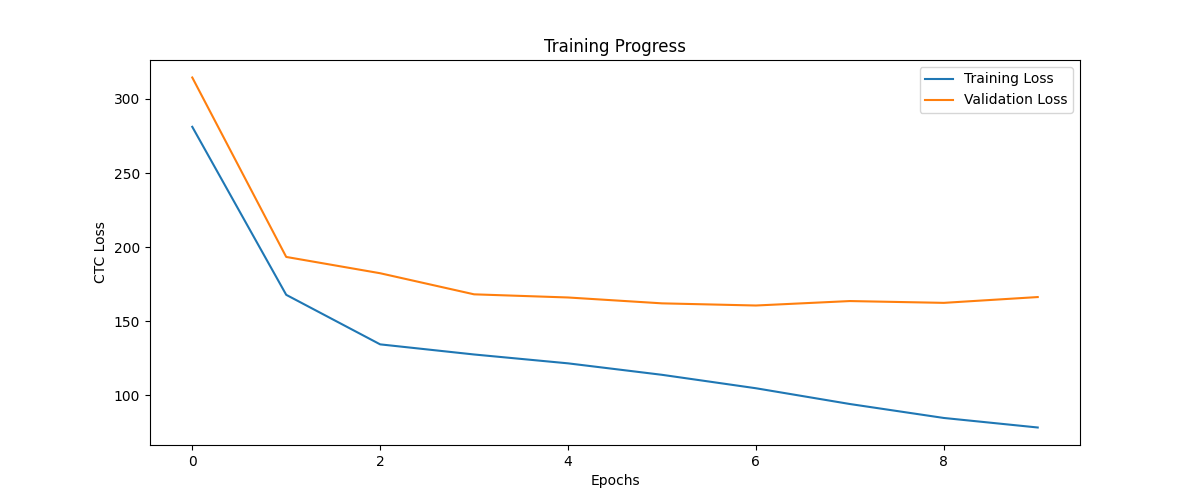
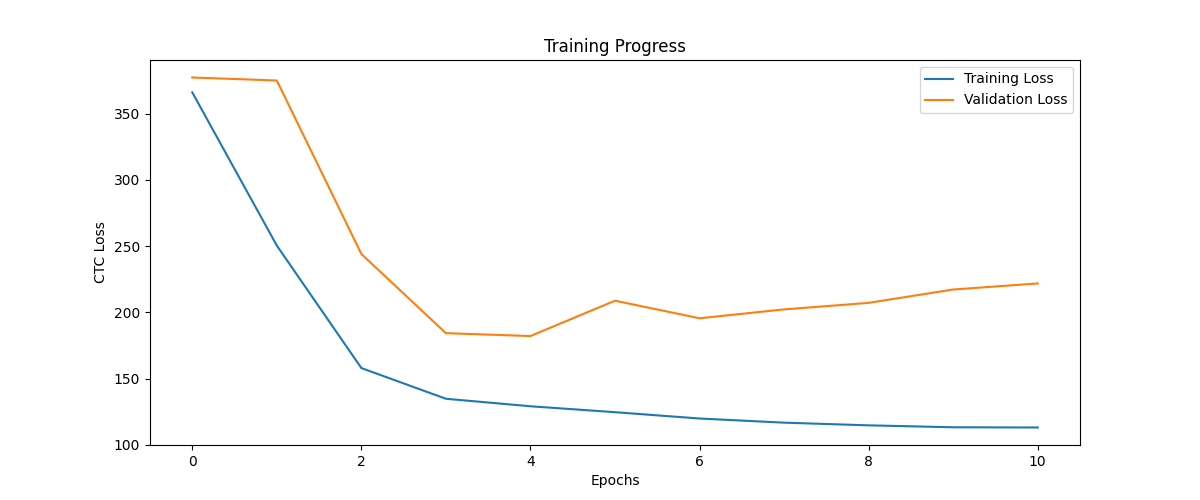
NOT knowing

diff --git a/models/stt_model/architecture.py b/models/stt_model/architecture.py
@@ -59,9 +59,9 @@ def build_stt_model(
 
     # BiLSTM Layers with regularization to avoid overfitting. Bidirection to capture information from both sides and LSTM because audio is sequential
     x = layers.Bidirectional(layers.LSTM(128, return_sequences=True, 
-                                      dropout=0.2, recurrent_dropout=0.2, kernel_regularizer = l2_reg))(x)
+                                      dropout=0.4, recurrent_dropout=0.4, kernel_regularizer = l2_reg))(x)
     x = layers.Bidirectional(layers.LSTM(128, return_sequences=True,
-                                      dropout=0.2, recurrent_dropout=0.2, kernel_regularizer = l2_reg))(x)
+                                      dropout=0.4, recurrent_dropout=0.4, kernel_regularizer = l2_reg))(x)
     
     x = layers.Conv1D(128, 5, padding="same", activation="relu")(x)  # Character-level modeling
     x = layers.BatchNormalization()(x)  
@@ -145,29 +145,9 @@ class CTCLossLayer(layers.Layer):
             axis=1
         )
         
-        # Simpler approach: Use one-hot masks for penalties
-        # 1. Blank token penalty
-        blank_penalty = 1.0
-        blank_mask = tf.one_hot(self.blank_index, depth=tf.shape(y_pred)[-1])
-        blank_mask = tf.reshape(blank_mask, [1, 1, -1])  # [1, 1, vocab_size+1]
-        
-        # 2. Space token penalty
-        space_penalty = 1.0
-        space_mask = tf.one_hot(3, depth=tf.shape(y_pred)[-1])
-        space_mask = tf.reshape(space_mask, [1, 1, -1])
-        
-        # 3. Vowel penalties (a, e, i, o, u)
-        vowel_penalty = 5.0
-        vowel_indices = tf.constant([11, 15, 19, 25, 31])
-        vowel_mask = tf.reduce_sum(tf.one_hot(vowel_indices, depth=tf.shape(y_pred)[-1]), axis=0)
-        vowel_mask = tf.reshape(vowel_mask, [1, 1, -1])
-        
-        # Apply all penalties at once
-        y_pred_adjusted = y_pred - (blank_mask * blank_penalty) - (space_mask * space_penalty) - (vowel_mask * vowel_penalty)
-        
         loss = tf.nn.ctc_loss(
             labels=y_true,
-            logits=y_pred_adjusted,
+            logits=y_pred,
             label_length=label_length,
             logit_length=input_length,
             logits_time_major=False,

diff --git a/training/train_streaming.py b/training/train_streaming.py
@@ -12,9 +12,9 @@ from jiwer import wer, cer
 tf.keras.mixed_precision.set_global_policy('float32')
 
 SAMPLE_RATE = 16000
-EPOCHS = 10
+EPOCHS = 20
 BATCH_SIZE = 64
-MAX_TRAIN_SAMPLES = 1_000
+MAX_TRAIN_SAMPLES = 30_000
 
 # wer and cer metrics
 class STTMetrics(tf.keras.callbacks.Callback):
@@ -110,12 +110,12 @@ class ClassBalanceCallback(tf.keras.callbacks.Callback):
             
             # Apply balance adjustments at each epoch
             # The strength increases with epochs to help guide learning
-            vowel_penalty = -0.7  
+            vowel_penalty = -1.0  
             blank_penalty = -0.2
             
             # Apply penalties
             biases[self.blank_index] = blank_penalty
-            biases[self.space_index] = 0.5
+            biases[self.space_index] = 0.2
             
             for idx in self.vowel_indices:
                 biases[idx] = vowel_penalty
@@ -211,13 +211,13 @@ def train_model():
             monitor='val_loss'
         ),
         tf.keras.callbacks.TensorBoard(log_dir="logs"),
-        tf.keras.callbacks.EarlyStopping(patience=4, restore_best_weights=True),
+        tf.keras.callbacks.EarlyStopping(patience=6, restore_best_weights=True),
         tf.keras.callbacks.ReduceLROnPlateau(
             monitor='val_loss',
             factor=0.5,
             patience=1,
             min_lr=1e-6,
-            verbose=1
+            verbose=2
         ),
         STTMetrics(real_val_batch, tokenizer),  # Use real validation data
         ClassBalanceCallback(vowel_indices)
